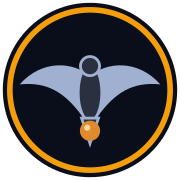
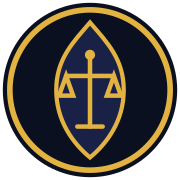
feat: Kawal Kepakaran visual identity
Indigo and gold tokens, serif display headings, colour-blind-safe verdict
styles (hue + glyph + label), guardian emblem, favicon and OG image. Home is
rebuilt around the pakar framing and keeps the five sky section ids.

diff --git a/src/styles/global.css b/src/styles/global.css
@@ -1,11 +1,14 @@
 :root {
-  --bg-primary: #0a0e1a; --bg-secondary: #111827;
-  --bg-card: rgba(17, 24, 39, 0.7); --bg-glass-border: rgba(148, 163, 184, 0.1);
-  --accent-blue: #3b82f6; --accent-amber: #f59e0b; --accent-green: #10b981; --accent-red: #ef4444;
-  --text-primary: #f1f5f9; --text-secondary: #94a3b8; --text-accent: #60a5fa;
-  --gradient-hero: linear-gradient(135deg, #0f172a 0%, #1e1b4b 50%, #0f172a 100%);
+  --bg-primary: #0b1020; --bg-secondary: #121a33;
+  --bg-card: rgba(18, 26, 51, 0.7); --bg-glass-border: rgba(148, 163, 184, 0.12);
+  --accent-blue: #3b82f6; --accent-amber: #e3b341; --accent-green: #10b981; --accent-red: #ef4444;
+  --text-primary: #f1f5f9; --text-secondary: #a3b1c6; --text-accent: #93c5fd;
+  --gradient-hero: linear-gradient(135deg, #0b1020 0%, #1a2147 50%, #0b1020 100%);
+  /* Verdicts: each pairs a hue with its own glyph and a text label, so colour is never the only signal. All >= 7:1 on --bg-primary. */
+  --verdict-confirmed: #6ee7a0; --verdict-partly: #fcd34d; --verdict-unsupported: #fda4af; --verdict-unverified: #a5c8ff;
   --radius-md: 0.75rem; --radius-lg: 1rem; --radius-full: 9999px;
   --font: system-ui, -apple-system, 'Segoe UI', Roboto, 'Helvetica Neue', Arial, sans-serif;
+  --font-display: 'Iowan Old Style', 'Palatino Linotype', Palatino, Charter, Georgia, 'Times New Roman', serif;
   --mono: ui-monospace, SFMono-Regular, Menlo, Consolas, monospace;
 }
 *, *::before, *::after { box-sizing: border-box; }
@@ -16,7 +19,7 @@ main { flex: 1; }
 a { color: var(--text-accent); }
 a:focus-visible, button:focus-visible, summary:focus-visible { outline: 3px solid var(--accent-amber); outline-offset: 3px; border-radius: 4px; }
 img { max-width: 100%; height: auto; border-radius: var(--radius-md); }
-h1, h2, h3 { line-height: 1.2; }
+h1, h2, h3 { line-height: 1.2; font-family: var(--font-display); letter-spacing: 0.005em; }
 .container { width: min(1100px, 100% - 2rem); margin-inline: auto; }
 .reading { width: min(70ch, 100% - 2rem); margin-inline: auto; padding-block: 2rem 4rem; }
 .reading blockquote { margin: 1rem 0; padding: 0.5rem 1rem; border-left: 3px solid var(--accent-blue); color: var(--text-secondary); }
@@ -29,6 +32,15 @@ h1, h2, h3 { line-height: 1.2; }
 .badge { display: inline-block; padding: 0.15rem 0.7rem; border-radius: var(--radius-full); font-size: 0.8rem;
   font-weight: 600; border: 1px solid currentColor; }
 .badge--amber { color: var(--accent-amber); } .badge--green { color: var(--accent-green); } .badge--blue { color: var(--text-accent); }
+.verdict::before { margin-right: 0.35em; font-weight: 700; }
+.verdict[data-verdict='dikonfirmasi'] { color: var(--verdict-confirmed); }
+.verdict[data-verdict='dikonfirmasi']::before { content: '✓'; }
+.verdict[data-verdict='sebagian'] { color: var(--verdict-partly); }
+.verdict[data-verdict='sebagian']::before { content: '◐'; }
+.verdict[data-verdict='tidak-terbukti'] { color: var(--verdict-unsupported); }
+.verdict[data-verdict='tidak-terbukti']::before { content: '✕'; }
+.verdict[data-verdict='belum-terverifikasi'] { color: var(--verdict-unverified); }
+.verdict[data-verdict='belum-terverifikasi']::before { content: '?'; }
 .banner { background: rgba(245, 158, 11, 0.08); border-bottom: 1px solid rgba(245, 158, 11, 0.35);
   color: var(--text-primary); font-size: 0.85rem; padding: 0.6rem 0; }
 .btn { display: inline-block; padding: 0.6rem 1.1rem; border-radius: var(--radius-full); background: #1d4ed8;

diff --git a/tests/home-wiring.test.ts b/tests/home-wiring.test.ts
@@ -1,0 +1,22 @@
+import { describe, it, expect } from 'vitest';
+import { readFileSync } from 'node:fs';
+import { HOME_SECTIONS } from '../src/lib/sky/states';
+
+const home = readFileSync('src/pages/index.astro', 'utf8');
+
+describe('home', () => {
+  it('leads with the pakar framing and links the main sections', () => {
+    for (const k of ["routePath('experts'", "routePath('claims'", "routePath('method'", "routePath('caseHome'"]) expect(home).toContain(k);
+  });
+  it('no longer presents Operasi Ababil as the site identity', () => {
+    expect(home).not.toMatch(/Operasi Ababil|Operation Ababil/);
+  });
+  it('keeps every section id the sky animation observes, plus the contribution anchor the menu links to', () => {
+    for (const id of HOME_SECTIONS) expect(home, id).toContain(`id="${id}"`);
+    expect(home).toContain('id="kontribusi"');
+  });
+  it('links the contribution guide on the default branch', () => {
+    expect(home).toContain('blob/main/CONTRIBUTING.md');
+    expect(home).not.toContain('blob/master');
+  });
+});

diff --git a/tests/sky-stage.test.ts b/tests/sky-stage.test.ts
@@ -34,12 +34,13 @@ describe('home sky without a framework runtime', () => {
 });
 
 describe('home image delivery', () => {
-  it('prioritises the hero image and serves it responsively and compressed', () => {
+  it('prioritises the hero emblem and reserves its space so the layout does not shift', () => {
     const home = read('src/pages/index.astro');
-    const hero = home.slice(home.indexOf('src={burungAbabil}'), home.indexOf('</figure>'));
+    const hero = home.slice(home.indexOf('src="/logo-kawal.svg"'), home.indexOf('</figure>'));
     expect(hero).toContain('fetchpriority="high"');
-    expect(hero).toContain('widths={[400, 640]}');
-    expect(hero).toMatch(/quality=\{\d+\}/);
+    expect(hero).toContain('loading="eager"');
+    expect(hero).toMatch(/width="\d+"/);
+    expect(hero).toMatch(/height="\d+"/);
   });
   it('gives static assets a long cache lifetime', () => {
     const headers = read('public/_headers');
